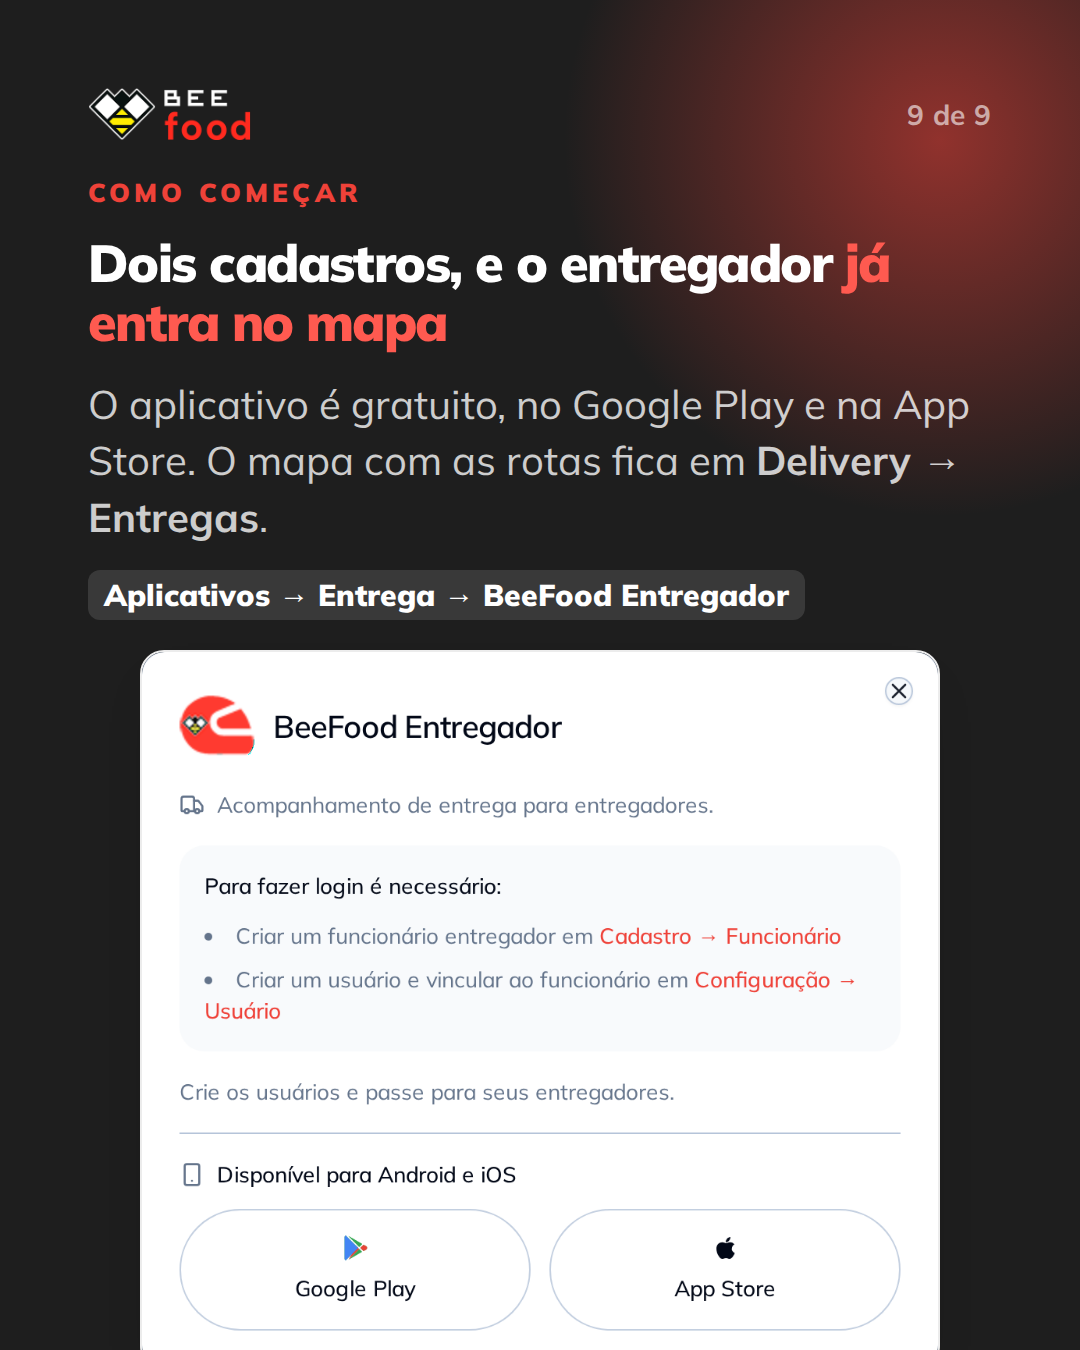
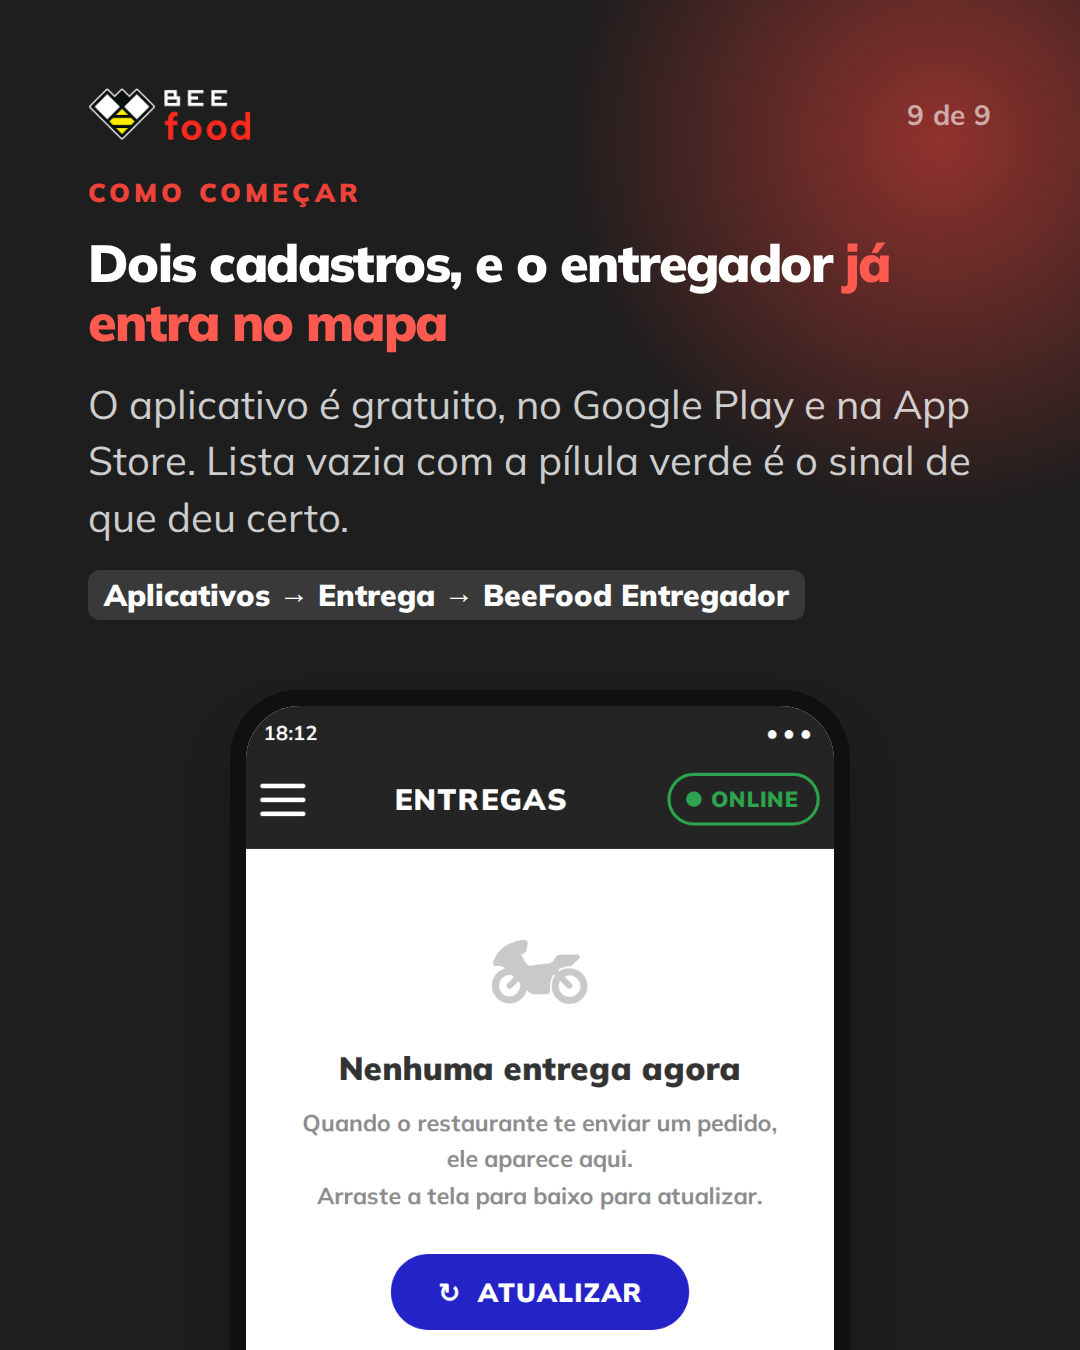
carrossel(10): o CTA mostra o app pronto, não a janela que ensina a cadastrar
O slide 9 trazia o print da janela informativa que lista os dois cadastros — a
mesma tela de configuração que a skill acabou de proibir, e ainda por cima a
única imagem da peça que não mostrava nada acontecendo.

Entra o resultado dos dois cadastros: o app aberto logo depois do primeiro
acesso, pílula verde no canto e lista vazia. É a prova que o manual usa, e ela
diz sozinha o que o subtítulo promete — quando abre assim, está certo; só falta
trabalho.

Saem também os dois prints de configuração que ficaram órfãos
(`app-lojas.png` e `despacho-regras.png`) e as etapas do `capturar-telas.py`
que os produziam, com o porquê escrito no cabeçalho do script para ninguém
recolocá-las.

Changed region(s): [[0.1222, 0.4667, 0.8861, 1.0], [0.0611, 0.3111, 0.8861, 0.4044]]

diff --git a/carrosseis/10-gestao-entregas/telas/app-pronto.html b/carrosseis/10-gestao-entregas/telas/app-pronto.html
@@ -1,0 +1,108 @@
+<!-- O aplicativo do entregador no primeiro minuto: logado, ONLINE e sem nada
+     para entregar ainda.
+
+     Por que desenhada: o BeeFood Entregador é Android/iOS e não roda no Cloud
+     Agent.
+
+     Por que ESTA tela no CTA: antes o slide 9 usava a janela do painel que
+     ensina os dois cadastros — "criar um funcionário em Cadastro → Funcionário,
+     criar um usuário em Configuração → Usuário". Isso é tela de instrução, que
+     é o que a regra nova do passo 3 da SKILL.md tirou da arte. O resultado dos
+     dois cadastros é este: o entregador entra, a pílula fica verde, e a lista
+     está vazia porque ainda não despacharam nada para ele. O manual é explícito
+     de que a tela assim "é sinal de que deu tudo certo, não de problema"
+     (manuais/app-entregador-entrar/, seção 3) — e é isso que faz uma tela vazia
+     poder ser a imagem de um CTA.
+
+     Copia layout, paleta e hierarquia de um print de PRODUÇÃO, sem recortar
+     nada dele:
+       manuais/gestao-entregas/material-recebido/app-entregador/
+         02-disponibilidade/prints/02-pilula-pausa.png
+     que é a mesma tela com a pílula laranja. O verde do ONLINE é o de
+     manuais/app-entregador-entrar/imagens-puras/10-tres-pilulas.png.
+
+     390x844 é a medida do `.celular`, e ele entra no slide com ~620 px.
+
+     Uma diferença do print, e é de enquadramento: no aparelho o bloco vazio
+     fica no meio da tela, com muito branco em cima. O slide sangra pela base e
+     mostra só a metade de cima do aparelho, então ali o bloco subiu — senão o
+     que o leitor vê é um retângulo branco. Nada do conteúdo mudou. -->
+<div class="tela" data-medida="390x844" style="background: #fff">
+
+  <!-- Barra de status do sistema -->
+  <div style="display: flex; align-items: center; justify-content: space-between;
+              background: #242424; color: #fff; padding: 9px 17px 5px;
+              font-size: 13px; font-weight: 700; flex: none">
+    <span>18:12</span>
+    <span style="letter-spacing: 3px">&#9679;&#9679;&#9679;</span>
+  </div>
+
+  <!-- Cabeçalho, com a pílula verde -->
+  <div style="display: flex; align-items: center; background: #242424;
+              padding: 13px 15px 15px; flex: none">
+    <span style="flex: none; width: 29px">
+      <span style="display: block; height: 3px; background: #fff;
+                   border-radius: 2px; margin-bottom: 6px"></span>
+      <span style="display: block; height: 3px; background: #fff;
+                   border-radius: 2px; margin-bottom: 6px"></span>
+      <span style="display: block; height: 3px; background: #fff;
+                   border-radius: 2px"></span>
+    </span>
+    <span style="flex: 1; text-align: center; color: #fff; font-size: 19px;
+                 font-weight: 900; letter-spacing: 0.9px;
+                 margin-left: -6px">ENTREGAS</span>
+    <span style="flex: none; display: inline-flex; align-items: center; gap: 6px;
+                 border: 2px solid #2ea44f; border-radius: 999px;
+                 padding: 6px 12px 6px 10px; color: #2ea44f; font-size: 14px;
+                 font-weight: 900; letter-spacing: 0.5px">
+      <span style="width: 10px; height: 10px; border-radius: 50%;
+                   background: #2ea44f"></span>ONLINE
+    </span>
+  </div>
+
+  <!-- Nada no nome dele ainda, e é isso que prova que o acesso funcionou -->
+  <div style="flex: 1; display: flex; flex-direction: column; align-items: center;
+              justify-content: flex-start; padding: 46px 30px 0; text-align: center">
+    <span style="font-size: 62px; color: #c9c9c9; line-height: 1">&#127949;</span>
+    <span style="margin-top: 20px; font-size: 21px; font-weight: 800;
+                 color: #333">Nenhuma entrega agora</span>
+    <span style="margin-top: 11px; font-size: 15px; font-weight: 600;
+                 color: #8b8b8b; line-height: 1.55">
+      Quando o restaurante te enviar um pedido,<br>ele aparece aqui.<br>
+      Arraste a tela para baixo para atualizar.
+    </span>
+    <span style="margin-top: 26px; background: #2323c8; color: #fff;
+                 border-radius: 999px; padding: 14px 30px; font-size: 17px;
+                 font-weight: 900; letter-spacing: 0.6px">
+      &#8635;&nbsp; ATUALIZAR
+    </span>
+  </div>
+
+  <!-- As quatro abas -->
+  <div style="flex: none; display: flex; background: #242424; color: #9a9a9a;
+              font-size: 11px; font-weight: 700; text-align: center;
+              padding: 10px 0 14px">
+    <span style="flex: 1; color: #e8362c">
+      <span style="display: block; font-size: 19px; line-height: 1.2">&#127949;</span>
+      Entregas
+    </span>
+    <span style="flex: 1; border-left: 1px solid #3a3a3a">
+      <span style="display: block; font-size: 19px; line-height: 1.2">&#8634;</span>
+      Histórico
+    </span>
+    <span style="flex: 1; border-left: 1px solid #3a3a3a">
+      <span style="display: block; font-size: 19px; line-height: 1.2;
+                   letter-spacing: -1px">&#9612;&#9612;&#9612;</span>
+      Código barras
+    </span>
+    <span style="flex: 1; border-left: 1px solid #3a3a3a">
+      <span style="display: block; font-size: 19px; line-height: 1.2">&#9881;</span>
+      Ajustes
+    </span>
+  </div>
+  <div style="flex: none; background: #242424; padding: 0 0 8px;
+              text-align: center">
+    <span style="display: inline-block; width: 120px; height: 5px;
+                 border-radius: 3px; background: #6d6d6d"></span>
+  </div>
+</div>

diff --git a/carrosseis/10-gestao-entregas/slides/09-cta.html b/carrosseis/10-gestao-entregas/slides/09-cta.html
@@ -4,12 +4,19 @@
      já existem no painel (o funcionário e o usuário), mais o aplicativo, que é
      gratuito nas duas lojas. Nada a contratar.
 
-     A imagem é a própria janela do sistema que ensina os dois cadastros e traz
-     os dois botões de loja. Ela é a prova e é o caminho: o leitor vê o que vai
-     encontrar quando abrir Aplicativos → Entrega.
+     A IMAGEM FOI TROCADA. Antes era a janela do painel que ensina os dois
+     cadastros, com o caminho de cada um escrito dentro dela. Tela de instrução
+     é o que a regra nova do passo 3 da SKILL.md tirou da arte — e aqui doía
+     duas vezes, porque o CTA é o slide que menos pode parecer documentação.
 
-     Sem data na arte, e sem aviso de limite antes do pedido: que o módulo está
-     em liberação é assunto da legenda, em `copy-instagram.txt`. -->
+     Agora é o resultado dos dois cadastros: o aplicativo dele aberto, a pílula
+     verde e a lista ainda vazia. Tela vazia num CTA só funciona porque o
+     manual diz por que ela é boa notícia — "é sinal de que deu tudo certo, não
+     de problema" —, e o subtítulo passa esse recado adiante. É o que o lojista
+     vai ver no celular do primeiro motoboy que ele cadastrar.
+
+     Aparelho em sangria pela base é a convenção de fechamento da casa: nove das
+     dez peças terminam assim. -->
 <div class="slide slide--capa">
   <div class="topo">
     <span class="logo"></span>
@@ -23,17 +30,19 @@
       <span class="destaque">já entra no mapa</span>
     </h2>
     <p class="subtitulo">
-      O aplicativo é gratuito, no Google Play e na App Store. O mapa com as
-      rotas fica em <b>Delivery → Entregas</b>.
+      O aplicativo é gratuito, no Google Play e na App Store. Lista vazia com a
+      pílula verde é o sinal de que deu certo.
     </p>
     <span class="caminho">Aplicativos → Entrega → BeeFood Entregador</span>
   </div>
 
-  <div class="sangria" style="top: 650px; left: 50%; transform: translateX(-50%);
-                              width: 800px">
-    <div class="recorte" style="width: 800px">
-      <img src="../imagens-puras/app-lojas.png"
-           alt="Janela do BeeFood Entregador no painel: o que é preciso para o entregador entrar — criar o funcionário em Cadastro → Funcionário e o usuário em Configuração → Usuário — e os botões de download para Google Play e App Store">
+  <div class="sangria" style="top: 690px; left: 50%; transform: translateX(-50%);
+                              width: 620px">
+    <div class="celular" style="width: 620px">
+      <div class="celular__tela">
+        <img src="../imagens-puras/app-pronto.png"
+             alt="Aplicativo do entregador aberto logo depois do primeiro acesso: o cabeçalho escuro com ENTREGAS e a pílula verde de ONLINE no canto, a lista ainda sem nenhuma entrega no nome dele, o botão ATUALIZAR e as quatro abas Entregas, Histórico, Código barras e Ajustes">
+      </div>
     </div>
   </div>
 </div>

diff --git a/carrosseis/10-gestao-entregas/capturar-telas.py b/carrosseis/10-gestao-entregas/capturar-telas.py
@@ -13,6 +13,26 @@ não tem. Nada é escrito no servidor.
     python capturar-telas.py                 # todas as telas
     python capturar-telas.py --só mapa       # uma etapa
     python capturar-telas.py --cru           # sem a cena, para comparar
+
+Quatro etapas foram REMOVIDAS na revisão, e as quatro pela mesma razão: o que
+elas capturavam era tela de configuração, e a skill deixou de aceitar isso como
+imagem de slide (SKILL.md, passo 3). São elas:
+
+  despacho   a janela das sete regras do despacho automático. O slide 3 agora
+             desenha o efeito da regra, em `telas/roteirizacao.html`.
+  app        a janela do BeeFood Entregador, que ensina os dois cadastros. O
+             slide 9 agora mostra o aplicativo já funcionando.
+  operacao   e
+  acerto     os dois relatórios. Aqui o problema é outro, e é mais simples: o
+             sandbox não tem volume. As médias só saem com vinte pedidos no
+             período, então o que havia para capturar era "Poucos pedidos" e
+             traço. Os dois relatórios agora são desenhados inteiros, em
+             `telas/relatorio-*.html`, com dado de exemplo. A prova de que o
+             sandbox não tinha o que mostrar ficou em `sonda/`.
+
+A etapa `entregadores` continua aqui mesmo sem ir para slide nenhum: é dela que
+`telas/situacao-entregador.html` copia layout, paleta e hierarquia, e imagem de
+referência que se apaga é desenho que ninguém consegue conferir depois.
 """
 from __future__ import annotations
 
@@ -29,8 +49,6 @@ PURAS = PASTA / "imagens-puras"
 CENA = json.loads((PASTA / "cena.json").read_text(encoding="utf-8"))
 
 PAINEL = "https://beefood.app/gestao-entregas"
-APLICATIVOS = "https://beefood.app/aplicativos"
-DESEMPENHO = "https://beefood.app/desempenho"
 ROTA_PAINEL = "**/entrega2/gestao/painel/**"
 ROTA_POSICOES = "**/entrega2/gestao/posicoes/**"
 ROTA_DESPACHO = "**/entrega2/gestao/despacho/config/**"
@@ -279,26 +297,10 @@ CORTES = {
     # loja de teste) e a coluna de ícones da esquerda. O que sobra é 16/10, que
     # é a proporção da tela do `.navegador` em sangria.
     "painel-inteiro": (101, 87, 2880, 1800),
-    # Sem a faixa de FECHAR / SALVAR: a janela é alta, e o que ela precisa
-    # mostrar no slide são as regras, não os botões de gravar.
-    "despacho-regras": (674, 298, 2208, 1890),
     # A janela inteira, com o grupo `Offline` no pé. Cortar ali deixava o título
     # `Entregadores (5)` em cima de quatro linhas, e contador que não fecha com a
     # lista é o tipo de detalhe que o leitor pega.
     "lista-entregadores": (928, 386, 1950, 1416),
-    "app-lojas": (930, 441, 1950, 1359),
-    # Os dois relatórios param de afirmar em pontos diferentes, e o corte é onde
-    # eles param — ver `roteiro.md`, seção *o recorte do relatório de acerto*.
-    # O pé fecha logo abaixo de "A rua responde por 13% do tempo até a entrega":
-    # a linha seguinte é "medido em 56 de 210 pedidos (27%)", que é ressalva de
-    # amostra e lê como dado fraco ao lado da barra que ela mesma sustenta.
-    #
-    # A lateral dos dois é a borda do painel branco, medida pelo pixel branco na
-    # linha (x 962 e 2813 nos dois relatórios): o corte anterior entrava 42 px
-    # dentro do painel à esquerda e sobrava 3 px à direita, e essa diferença
-    # chegava ao slide como um cartão pela metade encostado na borda.
-    "relatorio-operacao": (962, 735, 2814, 1358),
-    "relatorio-entregador": (962, 262, 2814, 756),
 }
 
 
@@ -332,22 +334,6 @@ def recortar(nome: str) -> None:
         imagem.crop(caixa).save(destino)
 
 
-def despacho(pagina, cru: bool) -> None:
-    """A janela do despacho automático, com as regras do agrupamento."""
-    # A janela tem 700 px de altura e o teto dela é `90vh`: nos 900 px do
-    # dispositivo `painel` ela abre rolada, sem o título em cima e sem a
-    # tolerância de GPS embaixo — recorte nenhum devolve o que não foi desenhado.
-    pagina.set_viewport_size({"width": 1440, "height": 1160})
-    abrir_painel(pagina, cru)
-    pagina.click('button:has-text("Despacho automático")')
-    pagina.wait_for_timeout(3000)
-    tirar_foco(pagina)
-    salvar(pagina, "despacho-regras")
-    recortar("despacho-regras")
-    pagina.keyboard.press("Escape")
-    pagina.wait_for_timeout(1200)
-    pagina.set_viewport_size({"width": 1440, "height": 900})
-
 
 def entregadores(pagina, cru: bool) -> None:
     """A lista completa de entregadores: posição, distância e bateria."""
@@ -379,73 +365,12 @@ def avisos(pagina, cru: bool) -> None:
     salvar(pagina, "avisos-whatsapp")
 
 
-def app_lojas(pagina, cru: bool) -> None:
-    """A janela do BeeFood Entregador: Android e iOS, com as duas lojas."""
-    pagina.goto(APLICATIVOS)
-    esperar(pagina, 7000)
-    limpar(pagina)
-    pagina.click("text=BeeFood Entregador")
-    pagina.wait_for_timeout(2500)
-    tirar_foco(pagina)
-    salvar(pagina, "app-lojas")
-    recortar("app-lojas")
-    pagina.keyboard.press("Escape")
-    pagina.wait_for_timeout(1000)
-
-
-def abrir_relatorio(pagina, item: str) -> None:
-    """Desempenho → Delivery → `item`, dentro do iframe dos relatórios.
-
-    O relatório vive num iframe de `relatorios.beefood.com.br`, que é outro
-    domínio: `contentDocument` é `null` e não há como medir nem rolar por dentro.
-    O clique passa pelo `frame_locator` e a rolagem pela roda do mouse, que é
-    evento de navegador e atravessa a fronteira.
-    """
-    pagina.goto(DESEMPENHO)
-    esperar(pagina, 9000)
-    limpar(pagina)
-    quadro = pagina.frame_locator("iframe")
-    quadro.locator('button:has-text("Delivery")').first.click()
-    pagina.wait_for_timeout(1500)
-    quadro.locator(f'button:has-text("{item}")').first.click()
-    pagina.wait_for_timeout(10000)
-
-
-def rolar_relatorio(pagina, quanto: int) -> None:
-    pagina.mouse.move(1000, 600)
-    pagina.mouse.wheel(0, quanto)
-    pagina.wait_for_timeout(1500)
-    # A roda deixa o cursor sobre o gráfico, e o gráfico abre a caixinha de
-    # valor debaixo do ponteiro — que no print lê como clique de alguém.
-    pagina.mouse.move(180, 820)
-    pagina.wait_for_timeout(1200)
-
-
-def relatorio_operacao(pagina, cru: bool) -> None:
-    """Operação de Entrega: as etapas de tempo e a divisão loja × rua."""
-    abrir_relatorio(pagina, "Operação de Entrega")
-    rolar_relatorio(pagina, 500)
-    salvar(pagina, "relatorio-operacao")
-    recortar("relatorio-operacao")
-
-
-def relatorio_entregador(pagina, cru: bool) -> None:
-    """Entregador (Taxa / KM): os quatro modos de pagar e o total do período."""
-    abrir_relatorio(pagina, "Entregador (Taxa / KM)")
-    salvar(pagina, "relatorio-entregador")
-    recortar("relatorio-entregador")
-
-
 ETAPAS = {
     "painel": tela_inteira,
     "mapa": mapa,
     "lista": lista_rotas,
-    "despacho": despacho,
     "entregadores": entregadores,
     "avisos": avisos,
-    "app": app_lojas,
-    "operacao": relatorio_operacao,
-    "acerto": relatorio_entregador,
 }
 
 
